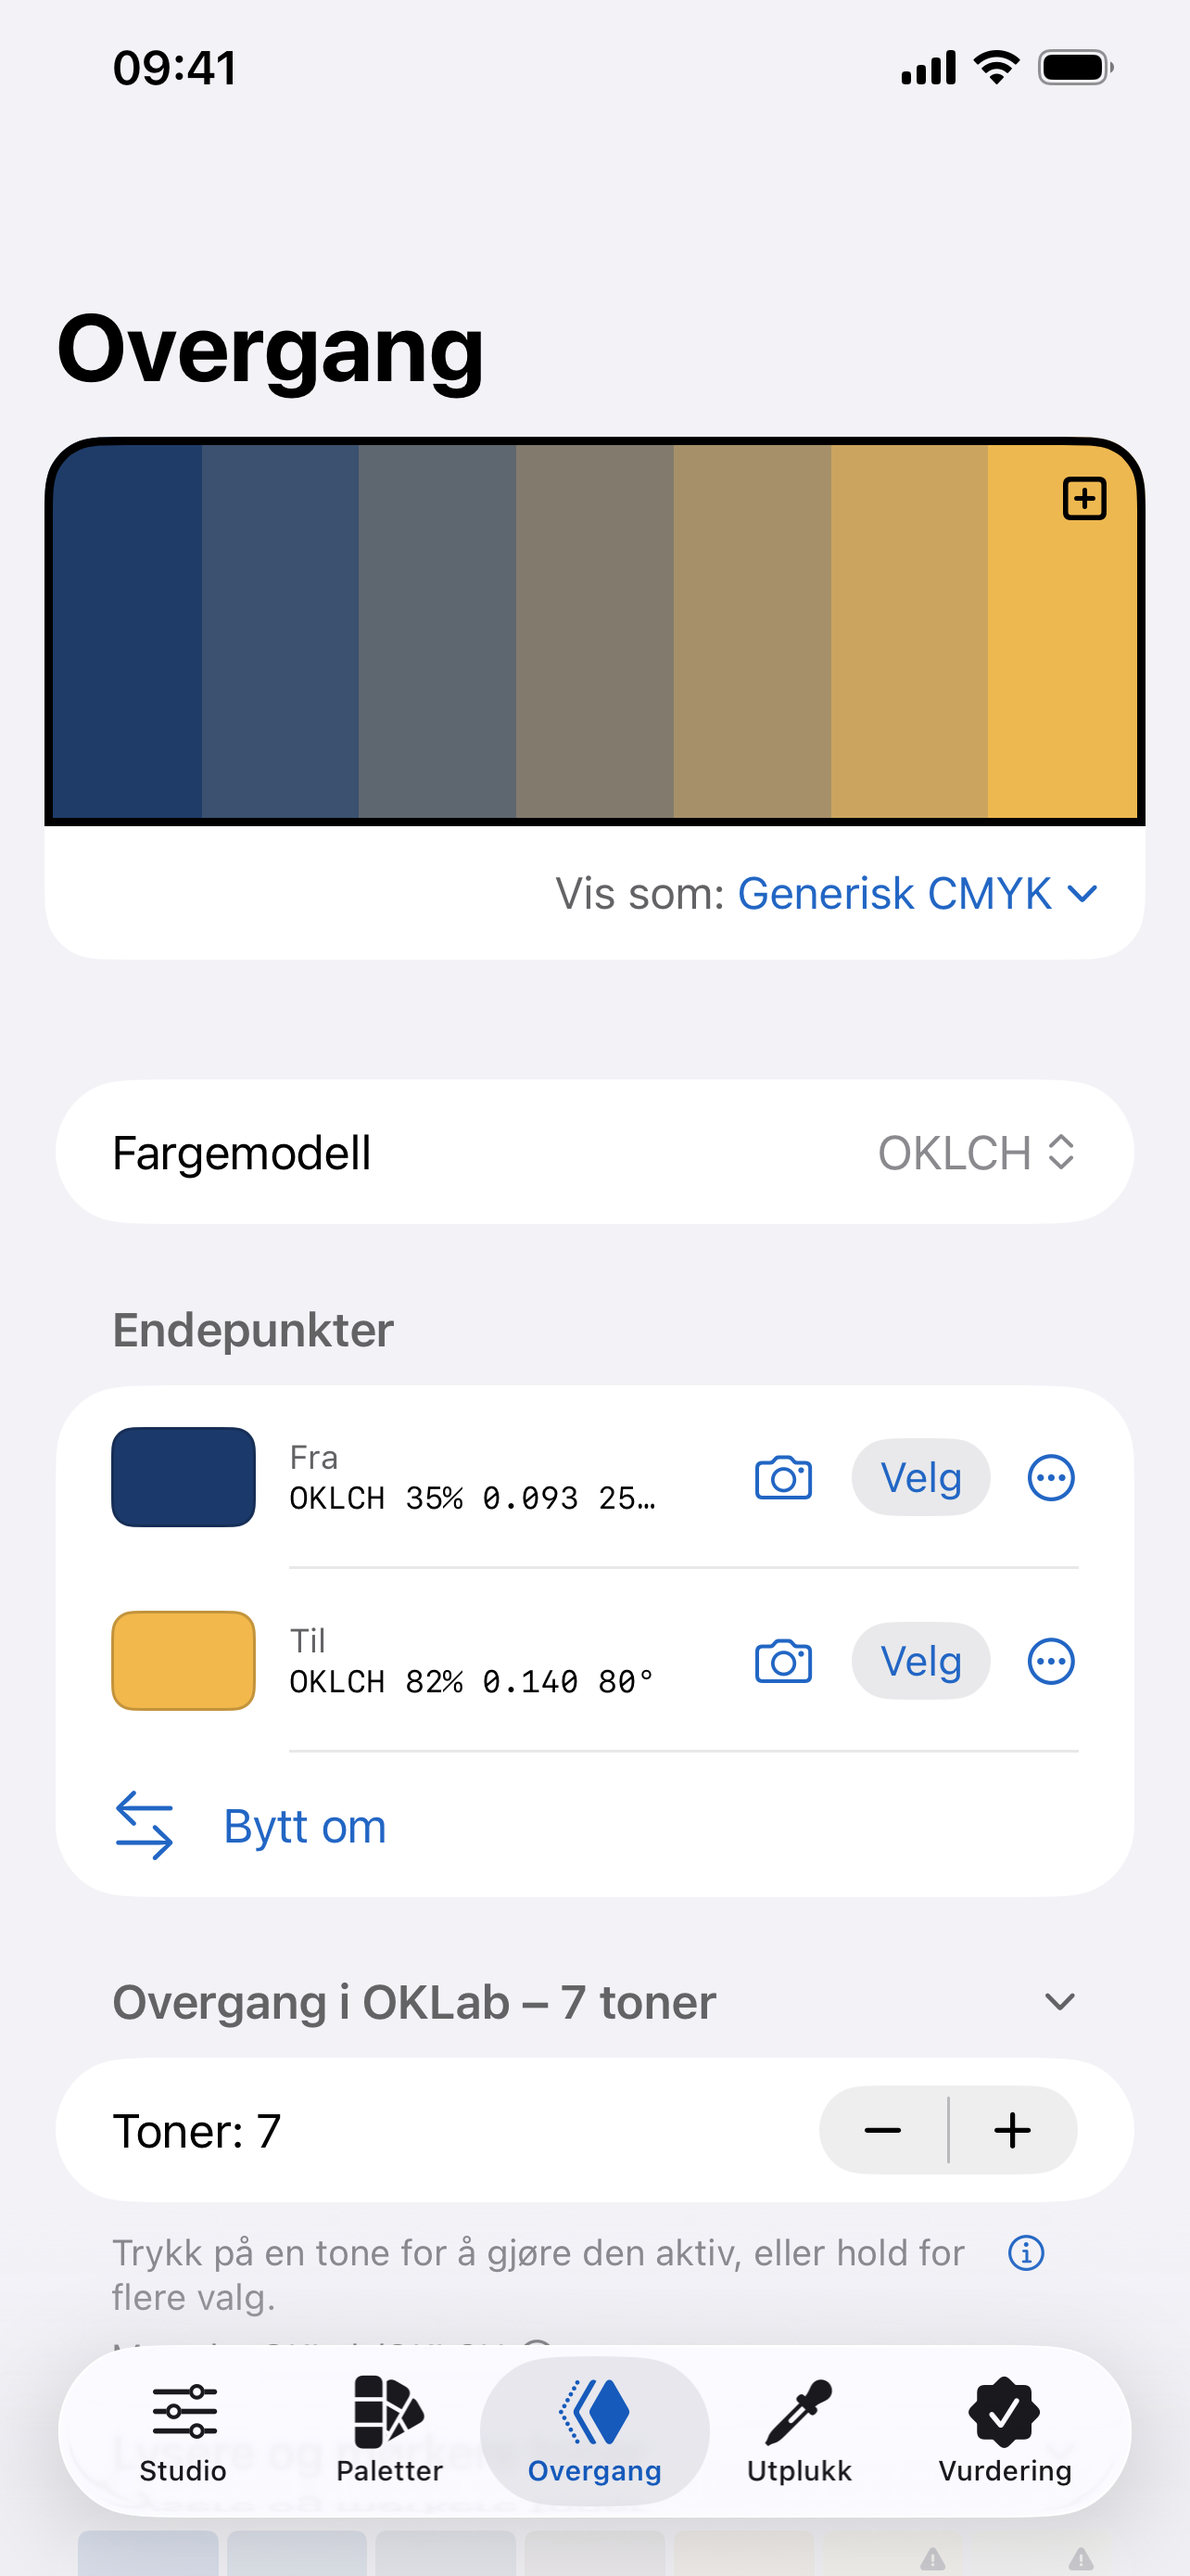
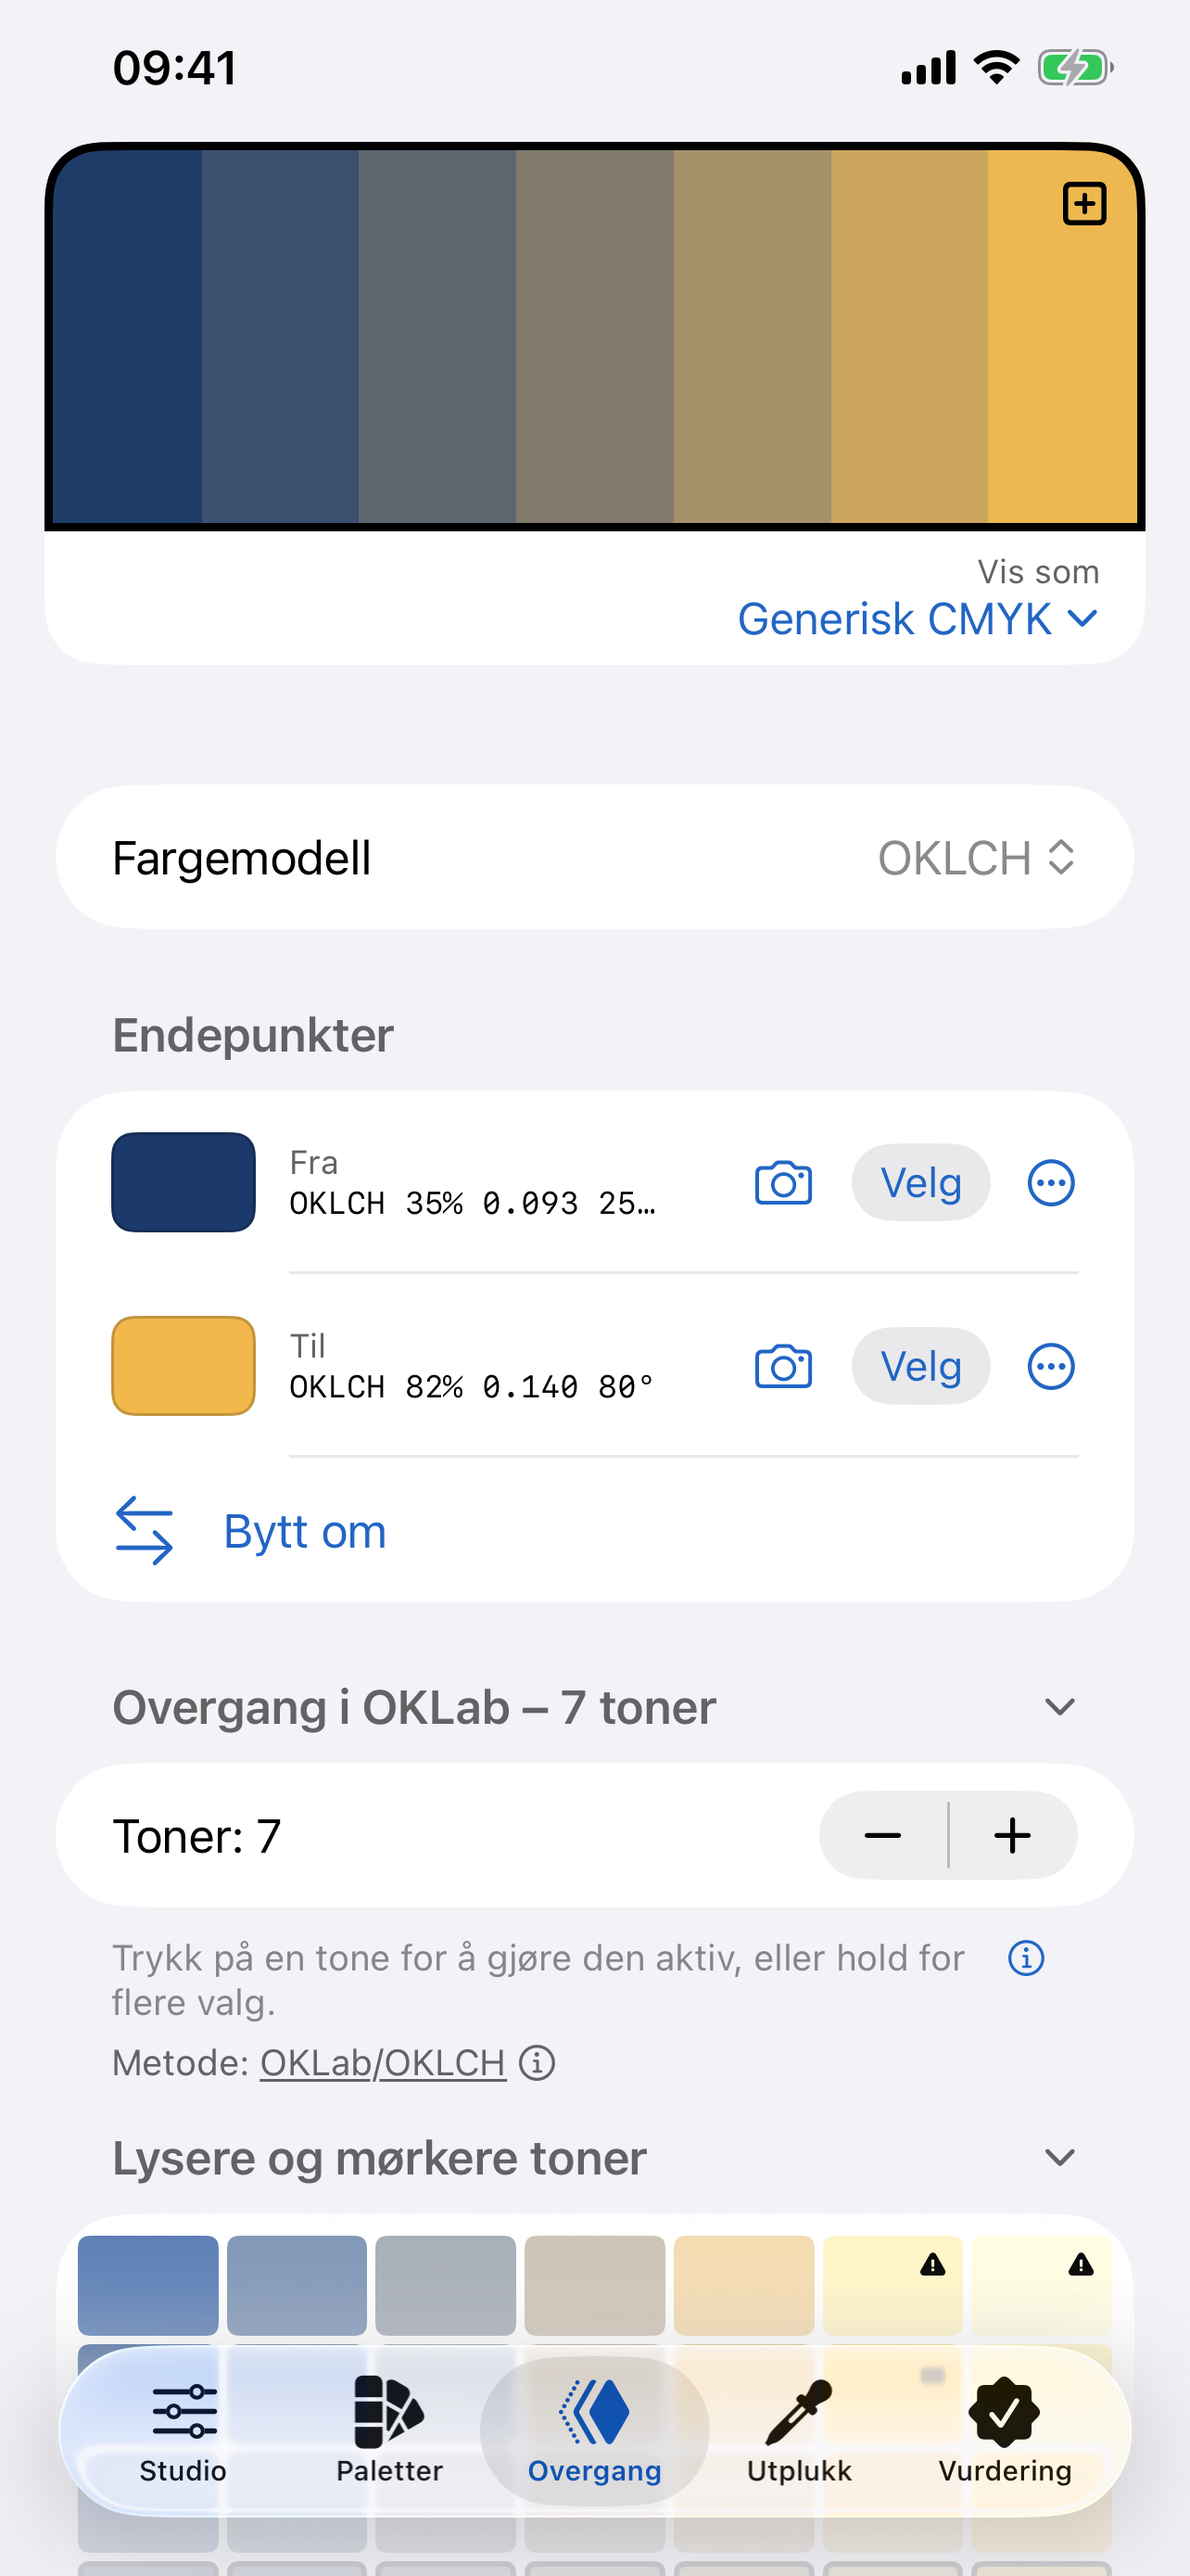
Overgang: ingen tittellinje på iPhone og iPhone Duo, liten tittel på iPad (som Studio og Vurdering); skjermbildene for iPhone og åpen Duo tatt på nytt

diff --git a/Kolorist/Plattform/Duo.swift b/Kolorist/Plattform/Duo.swift
@@ -216,9 +216,6 @@ struct Kortoppsett<Kort: View, Topp: View, Skjema: View>: View {
     /// Streken rundt fargefeltet (Overgang): åpen går den rundt kortets fargeområde og fargene over brettelinjen samlet
     /// (kortet tegner da ikke sin egen), lukket rundt fargelinjen.
     var ramme: Color? = nil
-    /// Sidetittelen (stor tittel). Åpen iPhone Duo: navigasjonslinjen går over hele bredden, så den store tittelen ville
-    /// lagt seg over kortet i venstre halvdel – den står i stedet øverst i skjemaet til høyre, og linjen skjules.
-    var tittel: LocalizedStringKey? = nil
     @ViewBuilder let kort: (_ bred: Bool) -> Kort
     @ViewBuilder let topp: () -> Topp
     @ViewBuilder let skjema: () -> Skjema
@@ -262,22 +259,9 @@ struct Kortoppsett<Kort: View, Topp: View, Skjema: View>: View {
                 // iPhone Duo: luft øverst – statuslinjen står loddrett til høyre, så toppen har ingen trygg sone mot
                 // de avrundede hjørnene.
                 skjema()
-                    .safeAreaInset(edge: .top, spacing: 0) {
-                        if delt != nil, let tittel {
-                            Text(tittel)
-                                .font(.largeTitle.bold())
-                                .frame(maxWidth: .infinity, alignment: .leading)
-                                .padding(.horizontal, 20)
-                                .padding(.bottom, 8)
-                                .background(Color.skjemabakgrunn)
-                        }
-                    }
                     .safeAreaPadding(.leading, bred ? 16 : 0)
                     .safeAreaPadding(.top, delt != nil || lukket ? Self.duoTopp : 0)
             }
-            #if os(iOS)
-            .toolbar(delt != nil && tittel != nil ? .hidden : .automatic, for: .navigationBar)
-            #endif
             // Bredt oppsett: 3D kan legges i venstre halvdel. Smalt igjen: 3D-visningen der forsvinner.
             .environment(\.venstre3DFane, bred && !lukket ? fane : nil)
             .onChange(of: bred, initial: true) { _, ny in

diff --git a/Kolorist/Visninger/OvergangVisning.swift b/Kolorist/Visninger/OvergangVisning.swift
@@ -241,7 +241,7 @@ struct OvergangVisning: View {
 
     var body: some View {
         // Tonene øverst (iPhone), til venstre (iPad, Mac, åpen iPhone Duo) eller i fargelinjen (lukket iPhone Duo).
-        Kortoppsett(fane: .overgang, farger: toner.map { Duofarge(farge: $0) }, ramme: tonramme, tittel: "Overgang") { bred in
+        Kortoppsett(fane: .overgang, farger: toner.map { Duofarge(farge: $0) }, ramme: tonramme) { bred in
             overgangsflate(bred: bred)
         } topp: {
             overgangsflate(bred: false, medFlate: false)
@@ -293,6 +293,12 @@ struct OvergangVisning: View {
         }
         .background(Color.skjemabakgrunn)
         .navigationTitle("Overgang")
+        #if os(iOS)
+        // Som Studio og Vurdering: liten tittel, og på iPhone ingen tittellinje – fanen sier allerede «Overgang», og
+        // overgangen får plassen (på åpen iPhone Duo ville en stor tittel dessuten lagt seg over kortet til venstre).
+        .navigationBarTitleDisplayMode(.inline)
+        .toolbar(UIDevice.current.userInterfaceIdiom == .phone ? .hidden : .automatic, for: .navigationBar)
+        #endif
         // Arket presenteres herfra, ikke fra menyen (iOS viser ikke ark fra et menyvalg som lukkes).
         .sheet(isPresented: $visMineFargerom) { MineProfilerArk(valgtID: $visOgsåID) }
         .alert("Lagre gradient", isPresented: $navngirGradient) {

diff --git a/web/1.4/en/platforms.html b/web/1.4/en/platforms.html
@@ -170,7 +170,7 @@
         <h3 id="vis-overgang">Gradient</h3>
         <div class="sammenligning-bilder">
           <figure class="skjermbilde iphone">
-            <img src="../assets/en/skjermbilde-overgang.png?v=10" alt="Gradient – iPhone" width="1284" height="2778" loading="lazy">
+            <img src="../assets/en/skjermbilde-overgang.png?v=14" alt="Gradient – iPhone" width="1284" height="2778" loading="lazy">
             <figcaption>iPhone</figcaption>
           </figure>
           <figure class="skjermbilde ipad">

diff --git a/web/1.4/plattformer.html b/web/1.4/plattformer.html
@@ -170,7 +170,7 @@
         <h3 id="vis-overgang">Overgang</h3>
         <div class="sammenligning-bilder">
           <figure class="skjermbilde iphone">
-            <img src="assets/skjermbilde-overgang.png?v=10" alt="Overgang – iPhone" width="1284" height="2778" loading="lazy">
+            <img src="assets/skjermbilde-overgang.png?v=14" alt="Overgang – iPhone" width="1284" height="2778" loading="lazy">
             <figcaption>iPhone</figcaption>
           </figure>
           <figure class="skjermbilde ipad">

diff --git a/web/verktøy/lag_sider.py b/web/verktøy/lag_sider.py
@@ -1369,6 +1369,8 @@ def skriv(sti, tekst):
     tekst = re.sub(r'(skjermbilde-3d-(?:gamut|overgang|filament)\.png)\?v=11', r'\1?v=12', tekst)
     # Mac-bildene tatt på nytt med 1.4 (bredt kortoppsett, Fargesyn med én rad per farge).
     tekst = re.sub(r'(mac/skjermbilde-(?:studio|harmoni|overgang|kontrast|flatekontrast|fargesyn)\.png)\?v=\d+', r'\1?v=13', tekst)
+    # Overgang på iPhone tatt på nytt uten tittellinje (som Studio og Vurdering).
+    tekst = re.sub(r'(assets/(?:en/)?skjermbilde-overgang\.png)\?v=\d+', r'\1?v=14', tekst)
     lang = 'en' if sti.startswith('en/') else 'nb'
     tekst = re.sub(r'https://kolorist\.no/l#z[A-Za-z0-9_-]+', lambda m: lenke_på(m.group(0), lang), tekst)
     open(f'{W}/{sti}', 'w').write(tekst)
